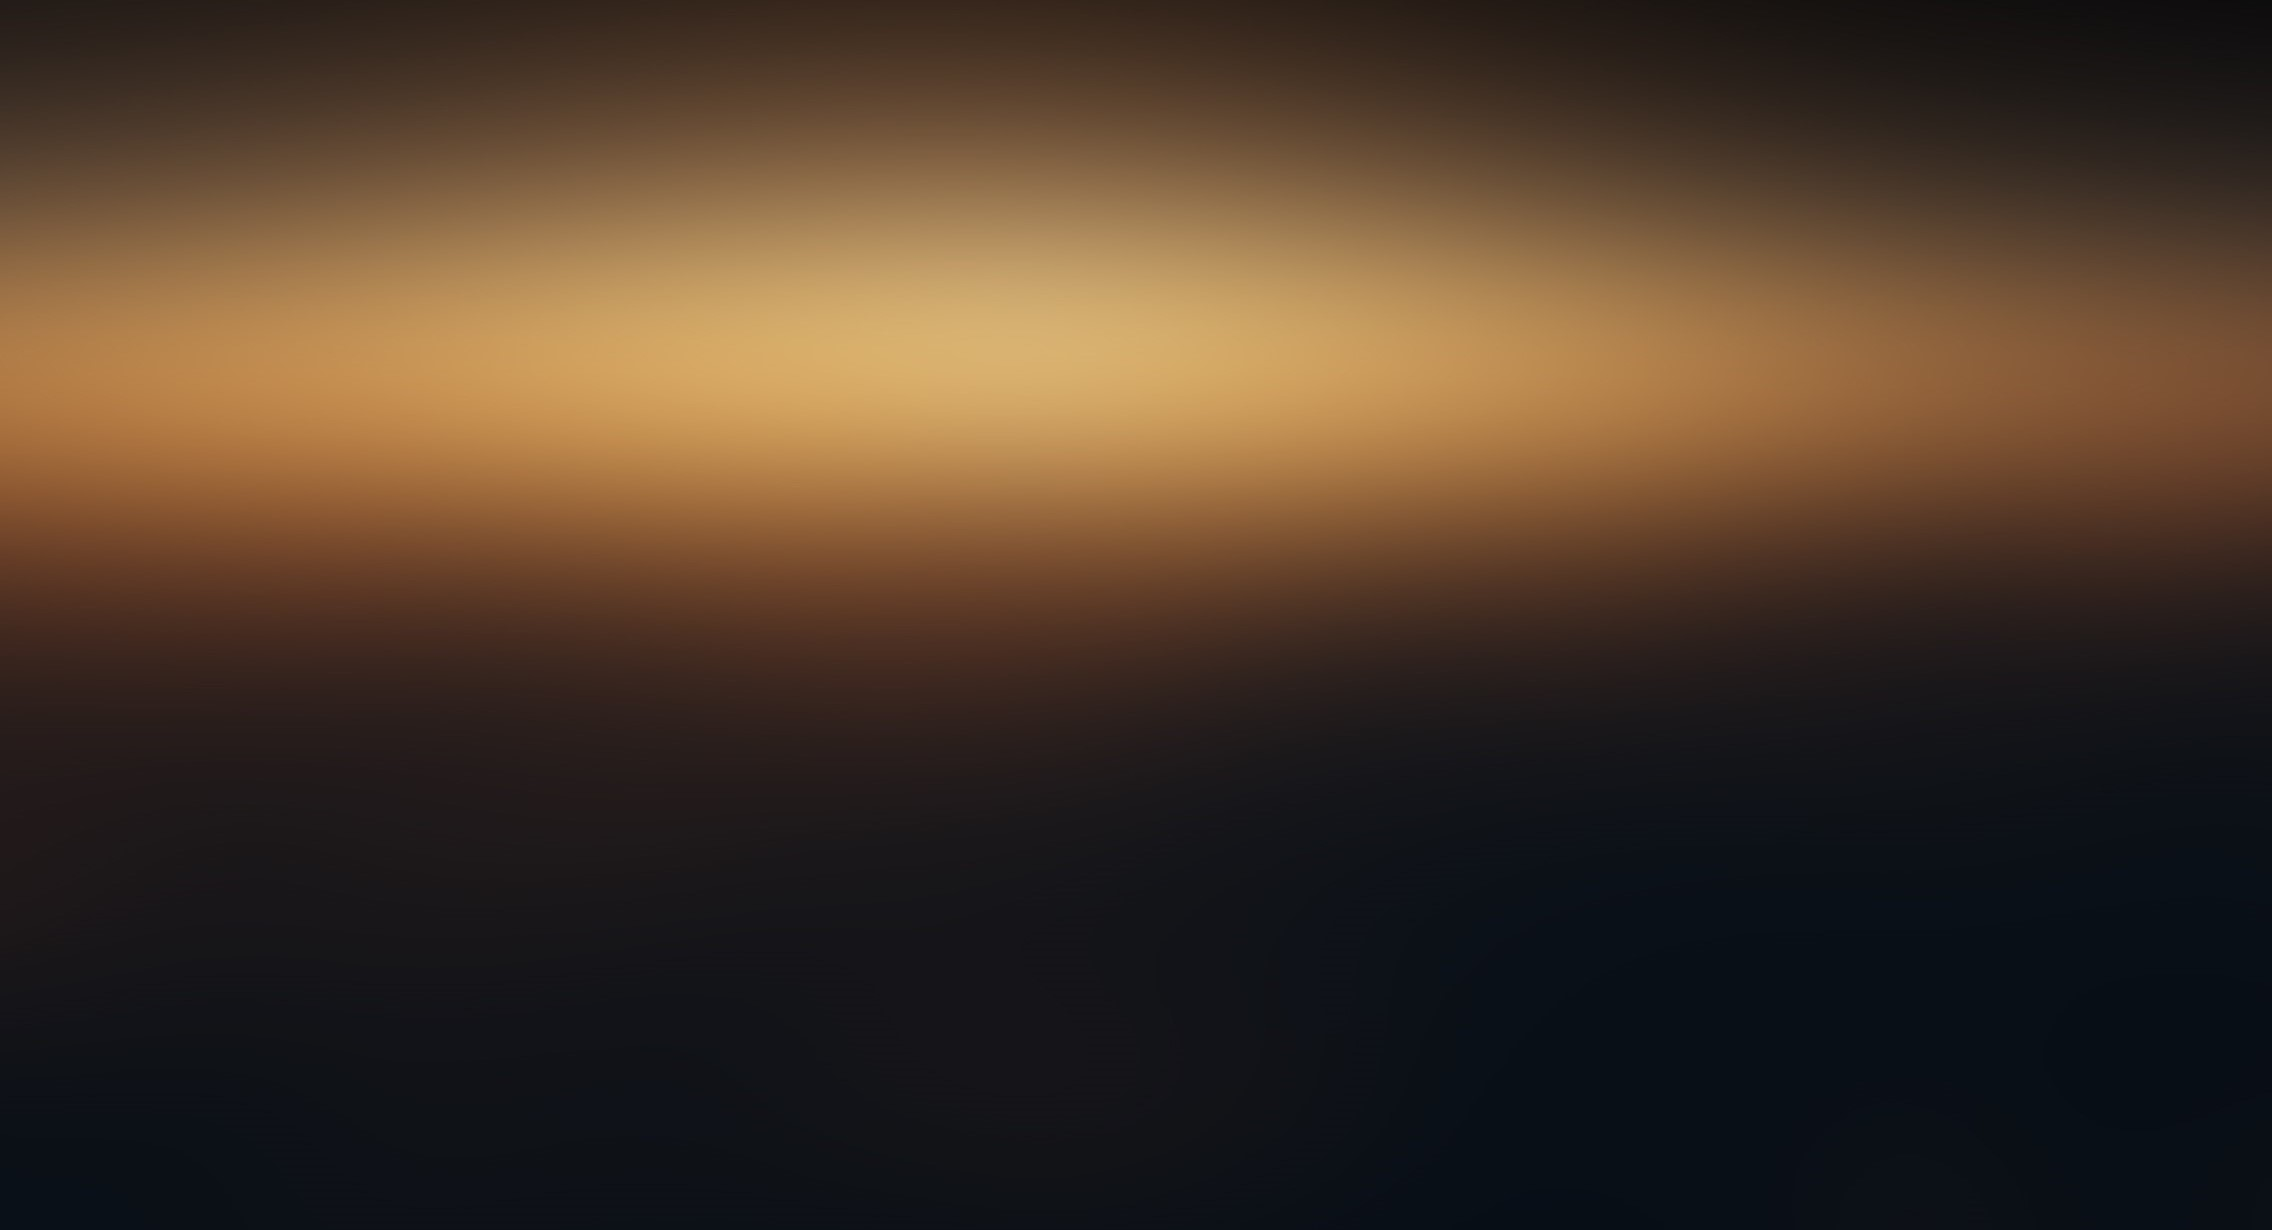
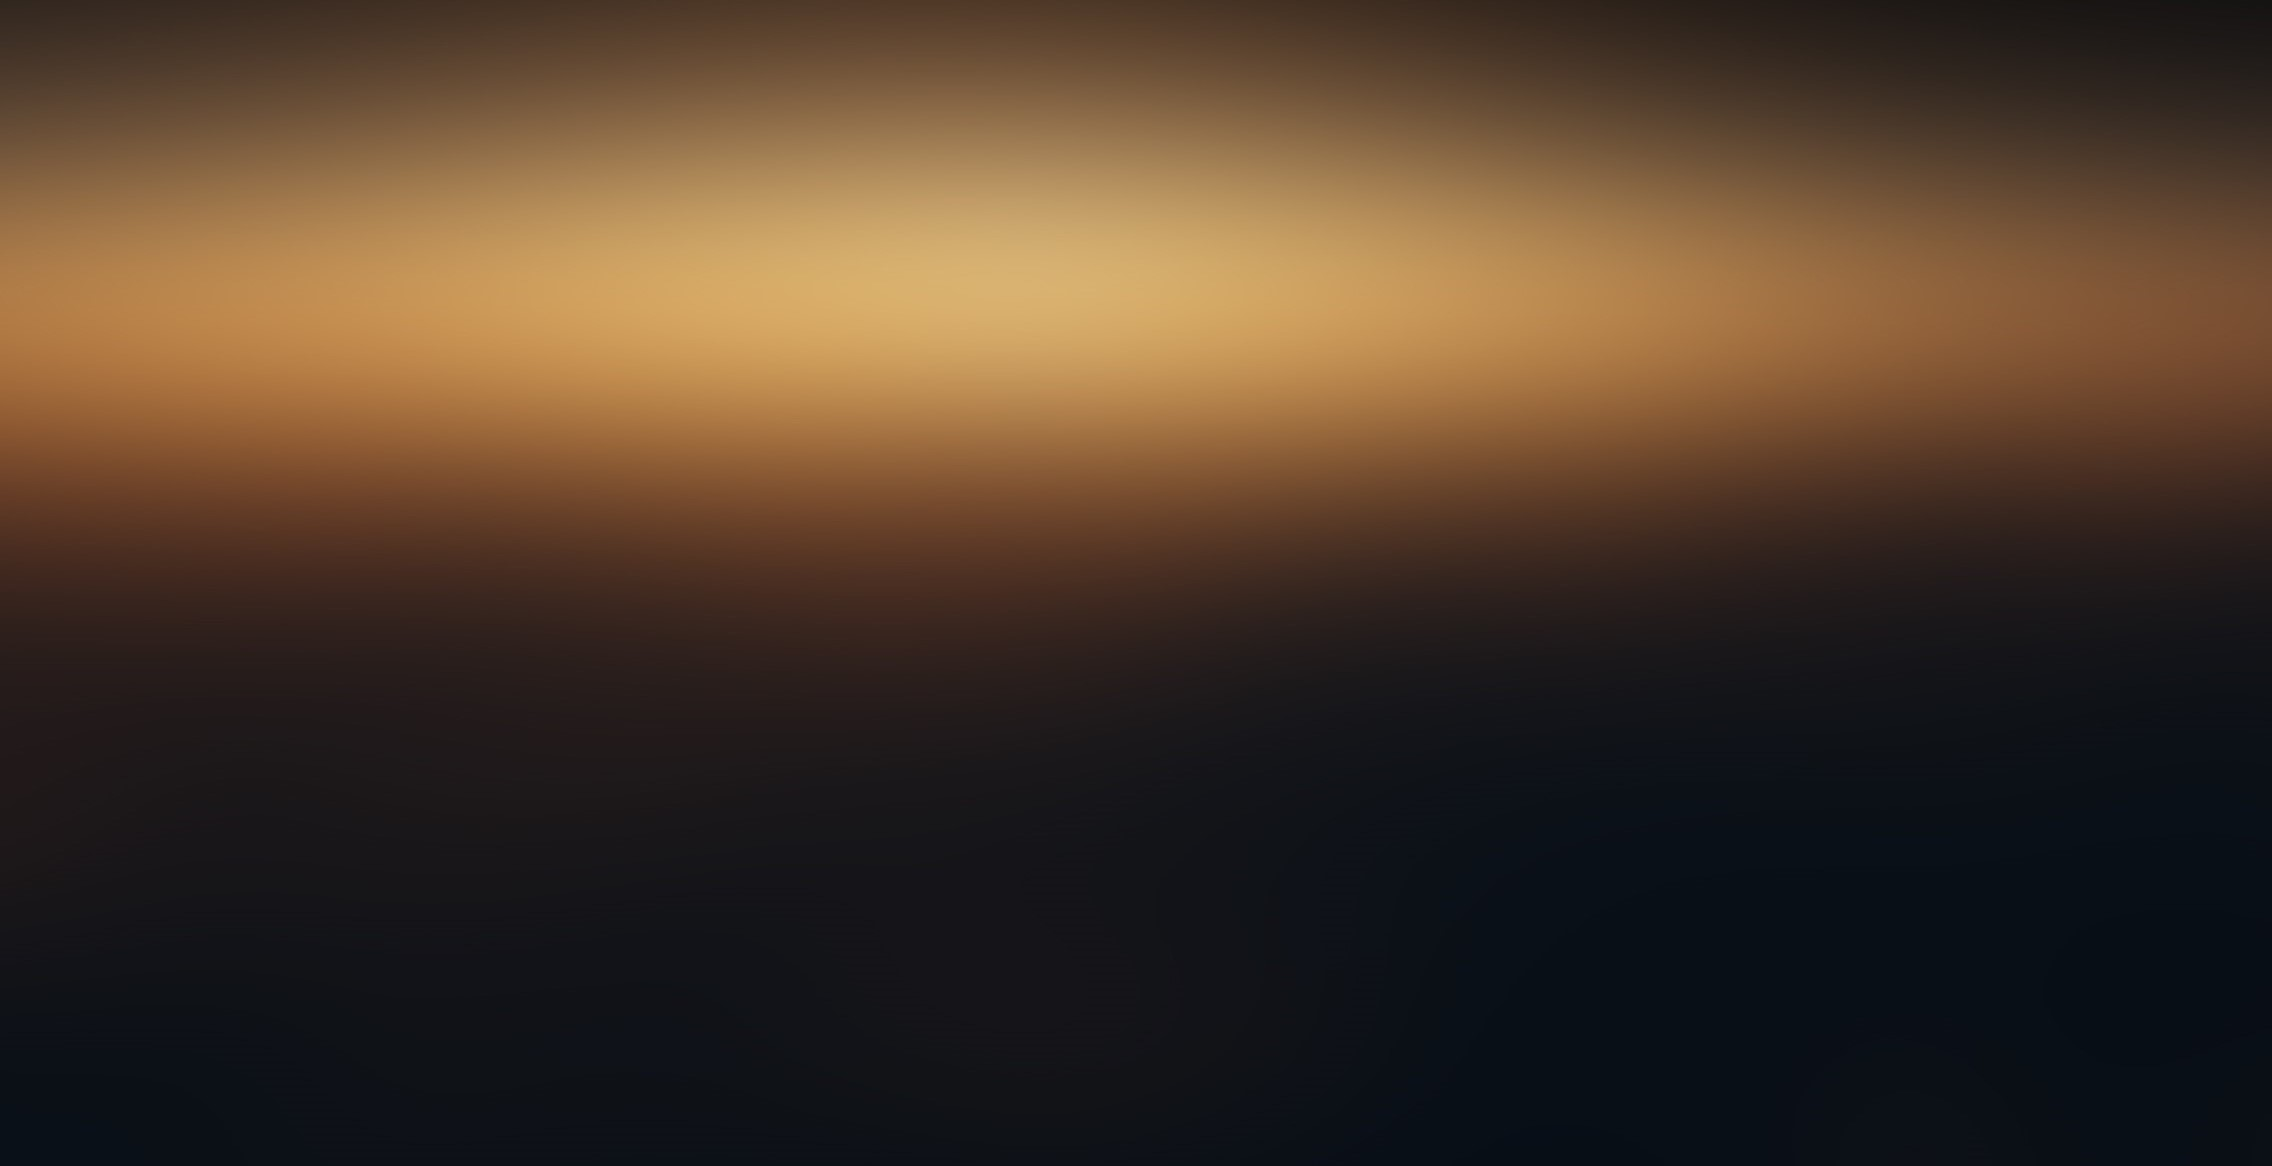
done frontend

Changed region(s): [[0.0, 0.0, 1.0, 0.2161], [0.0625, 0.3396, 0.8125, 0.4631]]

diff --git a/frontend/src/pages/MainPages/DestinationsPage.js b/frontend/src/pages/MainPages/DestinationsPage.js
@@ -69,43 +69,39 @@ function DestinationsPage()
     return(
         <div className = "destinations-page">
             <MainSidebar></MainSidebar>
-            <div className={"destinations-container-container-big"}>
-                <div className = "dates-container" >
-                    <div className = "date-container">
-                        <label>Start Date</label>
-                        <LocalizationProvider dateAdapter = { AdapterDayjs } >
-                            <DemoContainer components = { [ 'DatePicker' ] }>
-                                <DatePicker
-                                    defaultValue = { dayjs( dateFromDateTime( new Date() ) ) }
-                                    shouldDisableDate = { ( e ) => disableDatesBeforePresent( e.$d ) }
-                                    onChange = { ( e ) => setFromHandler( e.$d ) }
-                                />
-                            </DemoContainer>
-                        </LocalizationProvider>
-                    </div>
-                    <div className = "date-container" >
-                        <label>End Date</label>
-                        <LocalizationProvider dateAdapter = { AdapterDayjs } >
-                            <DemoContainer components = { [ 'DatePicker' ] }>
-                                <DatePicker
-                                    defaultValue = { dayjs( dateFromDateTime( getTomorrowDate() ) ) }
-                                    shouldDisableDate = { ( e ) => disableDatesBeforeFrom( e.$d ) }
-                                    onChange = { ( e ) => setToHandler( e.$d ) }
-                                />
-                            </DemoContainer>
-                        </LocalizationProvider>
-                    </div>
+            <div className = "dates-container" >
+                <div className = "date-container">
+                    <label>Start Date</label>
+                    <LocalizationProvider dateAdapter = { AdapterDayjs } >
+                        <DemoContainer components = { [ 'DatePicker' ] }>
+                            <DatePicker
+                                defaultValue = { dayjs( dateFromDateTime( new Date() ) ) }
+                                shouldDisableDate = { ( e ) => disableDatesBeforePresent( e.$d ) }
+                                onChange = { ( e ) => setFromHandler( e.$d ) }
+                            />
+                        </DemoContainer>
+                    </LocalizationProvider>
                 </div>
-                <div className = { "destinations-container-container" } >
-                    <div className = "destinations-container" >
-                        {
-                        mockDestinations.map( (dest) =>
-                            {
-                            return( buildDestinationDiv( dest ) )
-                            })
-                        }
-                    </div>
+                <div className = "date-container" >
+                    <label>End Date</label>
+                    <LocalizationProvider dateAdapter = { AdapterDayjs } >
+                        <DemoContainer components = { [ 'DatePicker' ] }>
+                            <DatePicker
+                                defaultValue = { dayjs( dateFromDateTime( getTomorrowDate() ) ) }
+                                shouldDisableDate = { ( e ) => disableDatesBeforeFrom( e.$d ) }
+                                onChange = { ( e ) => setToHandler( e.$d ) }
+                            />
+                        </DemoContainer>
+                    </LocalizationProvider>
                 </div>
+            </div>
+            <div className = "destinations-container" >
+                {
+                mockDestinations.map( (dest) =>
+                    {
+                    return( buildDestinationDiv( dest ) )
+                    })
+                }
             </div>
         </div>
     );

diff --git a/frontend/src/styles/styles.css b/frontend/src/styles/styles.css
@@ -6,6 +6,7 @@ body
     sans-serif;
   -webkit-font-smoothing: antialiased;
   -moz-osx-font-smoothing: grayscale;
+  overflow:auto;
   }
 
 code
@@ -13,12 +14,30 @@ code
   font-family: source-code-pro, Menlo, Monaco, Consolas, 'Courier New', monospace;
   }
 
+/*--------------------------MainPage.js------------------------*/
 .main-app
   {
   background-color: aquamarine;
   width: max-content;
   height: 100%;
   }
+
+.intro-text
+  {
+  color:  #303121;
+  font-size: 30px;
+  font-weight: bold;
+  padding-left: 20px;
+  }
+
+.copyright
+  {
+  position: fixed;
+  bottom: 40px;
+  left: 20px;
+  transform: translate(0, 100%);
+  }
+
 
 /*----------------------DestinationsPage.js---------------------*/
 .dates-container
@@ -38,13 +57,6 @@ code
 .destinations-container-container-big
   {
   overflow: auto;
-  /*background-color: rgb(239, 239, 239);*/
-  }
-
-.destinations-container-container
-  {
-  /*background-color: rgba(255, 255, 255);*/
-  /*background-color: rgba(0, 0, 0, 0.55);*/
   }
 
 .destinations-container
@@ -52,12 +64,14 @@ code
   display: grid;
   grid-template-columns: repeat( 4, auto );
   padding: 0;
+  overflow: scroll;
+  max-height: 510px;
+  overflow-x: hidden;
   }
 
 .destination-item
   {
   background-color: rgba(0, 0, 0, 0.55);
-  /*padding: 2px;*/
   margin: 20px;
   text-align: center;
   border-radius: 6px;

diff --git a/frontend/src/pages/MainPages/MainPage.js b/frontend/src/pages/MainPages/MainPage.js
@@ -10,6 +10,10 @@ function MainPage()
     return(
         <div className = "main-page">
             <MainSidebar></MainSidebar>
+            <div style = { { paddingTop: "250px" } } ></div>
+            <div className = { "intro-text" }> Wander. Explore. Discover </div>
+            <div className = { "intro-text" }> Welcome to Globert Travel - Your passport to adventure! </div>
+            <div className = { "copyright" }>Image by <a href="https://www.freepik.com/free-photo/composition-toy-airplane-passport-plant-leaves_4636248.htm#query=travel%20background&position=37&from_view=keyword&track=ais&uuid=62a6b086-5409-4903-96d2-1f1e0b1101c4">Freepik</a></div>
         </div>
         );
     }

diff --git a/frontend/src/styles/background.css b/frontend/src/styles/background.css
@@ -1,7 +1,7 @@
 /* Main page background image */
 .main-page
     {
-    background-image: url("../images/welcome_image.jpg") ;
+    background-image: url("../images/main_page.jpg") ;
     height: 120vh;
     background-size: cover;
     }
@@ -10,8 +10,8 @@
 .destinations-page
     {
     background-image: url("../images/destinations_page.jpg") ;
-    background-size: cover; /* Cover the entire background */
     }
+
 
 /* Destinations page background image */
 .contact-page

diff --git a/frontend/src/pages/MainPages/ContactPage.js b/frontend/src/pages/MainPages/ContactPage.js
@@ -9,7 +9,7 @@ function ContactPage()
     {
     /* JSX */
     return(
-        <div className = "destinations-page">
+        <div className = "contact-page">
             <MainSidebar></MainSidebar>
             <div className="contact-container">
                 <img src = { companyLogo } style={ { width: '100%', height: 'auto',  transform: "scale(0.5)" } } alt = 'Globert Logo'/>
